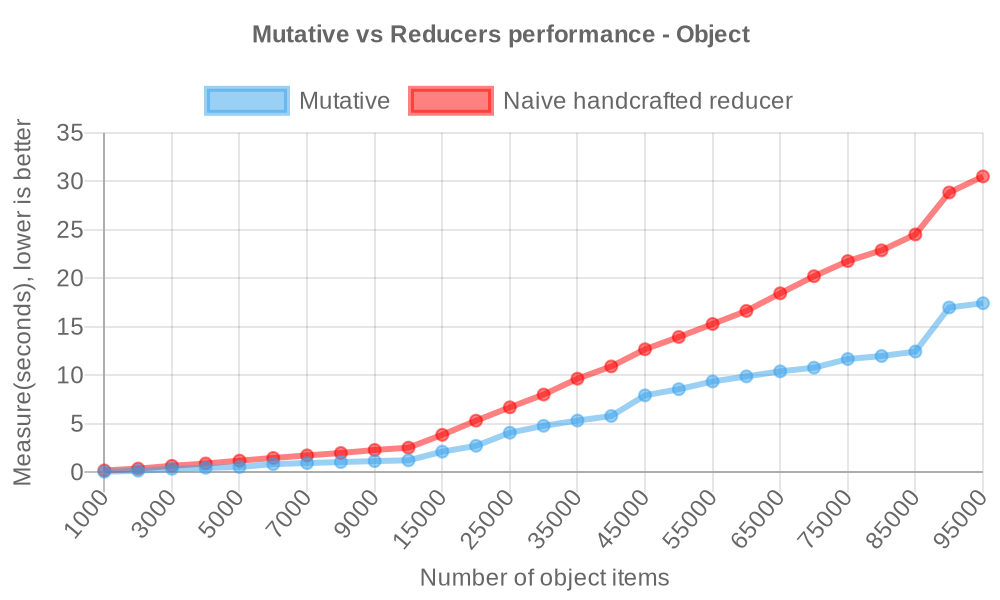
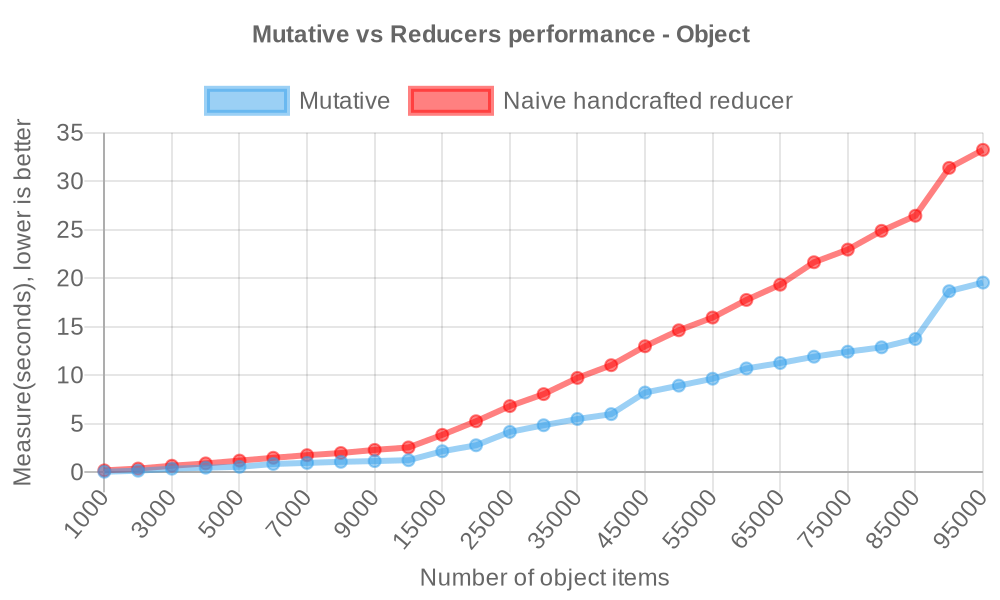
docs(benchmark): update benchmark for mutative v1.0.9

diff --git a/README.md b/README.md
@@ -110,23 +110,23 @@ Mutative is up to 6x faster than naive handcrafted reducer for updating immutabl
 
 > Mutative passed all of Immer's test cases.
 
-Measure(ops/sec) to update 50K arrays and 1K objects, bigger is better([view source](https://github.com/unadlib/mutative/blob/main/test/performance/benchmark.ts)). [Mutative v1.0.5 vs Immer v10.1.1]
+Measure(ops/sec) to update 50K arrays and 1K objects, bigger is better([view source](https://github.com/unadlib/mutative/blob/main/test/performance/benchmark.ts)). [Mutative v1.0.9 vs Immer v10.1.1]
 
 ![Benchmark](benchmark.jpg)
 
 ```
-Naive handcrafted reducer - No Freeze x 4,442 ops/sec ±0.38% (95 runs sampled)
-Mutative - No Freeze x 6,199 ops/sec ±0.79% (89 runs sampled)
-Immer - No Freeze x 5.30 ops/sec ±0.38% (18 runs sampled)
+Naive handcrafted reducer - No Freeze x 4,447 ops/sec ±0.85% (96 runs sampled)
+Mutative - No Freeze x 6,246 ops/sec ±1.29% (92 runs sampled)
+Immer - No Freeze x 5.26 ops/sec ±0.56% (18 runs sampled)
 
-Mutative - Freeze x 974 ops/sec ±1.77% (92 runs sampled)
-Immer - Freeze x 376 ops/sec ±0.67% (92 runs sampled)
+Mutative - Freeze x 950 ops/sec ±0.95% (96 runs sampled)
+Immer - Freeze x 377 ops/sec ±0.37% (93 runs sampled)
 
-Mutative - Patches and No Freeze x 969 ops/sec ±0.99% (97 runs sampled)
-Immer - Patches and No Freeze x 5.27 ops/sec ±0.36% (18 runs sampled)
+Mutative - Patches and No Freeze x 978 ops/sec ±0.16% (97 runs sampled)
+Immer - Patches and No Freeze x 5.23 ops/sec ±0.25% (18 runs sampled)
 
-Mutative - Patches and Freeze x 514 ops/sec ±0.97% (95 runs sampled)
-Immer - Patches and Freeze x 275 ops/sec ±0.74% (89 runs sampled)
+Mutative - Patches and Freeze x 504 ops/sec ±1.01% (94 runs sampled)
+Immer - Patches and Freeze x 272 ops/sec ±0.83% (89 runs sampled)
 
 The fastest method is Mutative - No Freeze
 ```
@@ -137,7 +137,7 @@ Run `yarn benchmark` to measure performance.
 
 Immer relies on auto-freeze to be enabled, if auto-freeze is disabled, Immer will have a huge performance drop and Mutative will have a huge performance lead, especially with large data structures it will have a performance lead of more than 50x.
 
-So if you are using Immer, you will have to enable auto-freeze for performance. Mutative is disabled auto-freeze by default. With the default configuration of both, we can see the 16x performance gap between Mutative (`6,199 ops/sec`) and Immer (`376 ops/sec`).
+So if you are using Immer, you will have to enable auto-freeze for performance. Mutative is disabled auto-freeze by default. With the default configuration of both, we can see the 16x performance gap between Mutative (`6,246 ops/sec`) and Immer (`377 ops/sec`).
 
 Overall, Mutative has a huge performance lead over Immer in [more performance testing scenarios](https://github.com/unadlib/mutative/tree/main/test/performance). Run `yarn performance` to get all the performance results locally.
 

diff --git a/website/docs/extra-topics/comparison-with-immer.md b/website/docs/extra-topics/comparison-with-immer.md
@@ -25,23 +25,23 @@ Mutative has fewer bugs such as accidental draft escapes than Immer, [view detai
 
 > Mutative passed all of Immer's test cases.
 
-Measure(ops/sec) to update 50K arrays and 1K objects, bigger is better([view source](https://github.com/unadlib/mutative/blob/main/test/performance/benchmark.ts)). [Mutative v1.0.5 vs Immer v10.1.1]
+Measure(ops/sec) to update 50K arrays and 1K objects, bigger is better([view source](https://github.com/unadlib/mutative/blob/main/test/performance/benchmark.ts)). [Mutative v1.0.9 vs Immer v10.1.1]
 
 ![Benchmark](img/benchmark.jpg)
 
 ```
-Naive handcrafted reducer - No Freeze x 4,442 ops/sec ±0.38% (95 runs sampled)
-Mutative - No Freeze x 6,199 ops/sec ±0.79% (89 runs sampled)
-Immer - No Freeze x 5.30 ops/sec ±0.38% (18 runs sampled)
+Naive handcrafted reducer - No Freeze x 4,447 ops/sec ±0.85% (96 runs sampled)
+Mutative - No Freeze x 6,246 ops/sec ±1.29% (92 runs sampled)
+Immer - No Freeze x 5.26 ops/sec ±0.56% (18 runs sampled)
 
-Mutative - Freeze x 974 ops/sec ±1.77% (92 runs sampled)
-Immer - Freeze x 376 ops/sec ±0.67% (92 runs sampled)
+Mutative - Freeze x 950 ops/sec ±0.95% (96 runs sampled)
+Immer - Freeze x 377 ops/sec ±0.37% (93 runs sampled)
 
-Mutative - Patches and No Freeze x 969 ops/sec ±0.99% (97 runs sampled)
-Immer - Patches and No Freeze x 5.27 ops/sec ±0.36% (18 runs sampled)
+Mutative - Patches and No Freeze x 978 ops/sec ±0.16% (97 runs sampled)
+Immer - Patches and No Freeze x 5.23 ops/sec ±0.25% (18 runs sampled)
 
-Mutative - Patches and Freeze x 514 ops/sec ±0.97% (95 runs sampled)
-Immer - Patches and Freeze x 275 ops/sec ±0.74% (89 runs sampled)
+Mutative - Patches and Freeze x 504 ops/sec ±1.01% (94 runs sampled)
+Immer - Patches and Freeze x 272 ops/sec ±0.83% (89 runs sampled)
 
 The fastest method is Mutative - No Freeze
 ```
@@ -52,7 +52,7 @@ Run `yarn benchmark` to measure performance.
 
 Immer relies on auto-freeze to be enabled, if auto-freeze is disabled, Immer will have a huge performance drop and Mutative will have a huge performance lead, especially with large data structures it will have a performance lead of more than 50x.
 
-So if you are using Immer, you will have to enable auto-freeze for performance. Mutative is disabled auto-freeze by default. With the default configuration of both, we can see the 16x performance gap between Mutative (`6,199 ops/sec`) and Immer (`376 ops/sec`).
+So if you are using Immer, you will have to enable auto-freeze for performance. Mutative is disabled auto-freeze by default. With the default configuration of both, we can see the 16x performance gap between Mutative (`6,246 ops/sec`) and Immer (`377 ops/sec`).
 
 Overall, Mutative has a huge performance lead over Immer in [more performance testing scenarios](https://github.com/unadlib/mutative/tree/main/test/performance). Run `yarn performance` to get all the performance results locally.
 

diff --git a/website/docs/getting-started/performance.md b/website/docs/getting-started/performance.md
@@ -69,23 +69,23 @@ const state = create(baseState, (draft) => {
 
 > Mutative passed all of Immer's test cases.
 
-Measure(ops/sec) to update 50K arrays and 1K objects, bigger is better([view source](https://github.com/unadlib/mutative/blob/main/test/performance/benchmark.ts)). [Mutative v1.0.5 vs Immer v10.1.1]
+Measure(ops/sec) to update 50K arrays and 1K objects, bigger is better([view source](https://github.com/unadlib/mutative/blob/main/test/performance/benchmark.ts)). [Mutative v1.0.9 vs Immer v10.1.1]
 
 ![Benchmark](img/benchmark.jpg)
 
 ```
-Naive handcrafted reducer - No Freeze x 4,442 ops/sec ±0.38% (95 runs sampled)
-Mutative - No Freeze x 6,199 ops/sec ±0.79% (89 runs sampled)
-Immer - No Freeze x 5.30 ops/sec ±0.38% (18 runs sampled)
+Naive handcrafted reducer - No Freeze x 4,447 ops/sec ±0.85% (96 runs sampled)
+Mutative - No Freeze x 6,246 ops/sec ±1.29% (92 runs sampled)
+Immer - No Freeze x 5.26 ops/sec ±0.56% (18 runs sampled)
 
-Mutative - Freeze x 974 ops/sec ±1.77% (92 runs sampled)
-Immer - Freeze x 376 ops/sec ±0.67% (92 runs sampled)
+Mutative - Freeze x 950 ops/sec ±0.95% (96 runs sampled)
+Immer - Freeze x 377 ops/sec ±0.37% (93 runs sampled)
 
-Mutative - Patches and No Freeze x 969 ops/sec ±0.99% (97 runs sampled)
-Immer - Patches and No Freeze x 5.27 ops/sec ±0.36% (18 runs sampled)
+Mutative - Patches and No Freeze x 978 ops/sec ±0.16% (97 runs sampled)
+Immer - Patches and No Freeze x 5.23 ops/sec ±0.25% (18 runs sampled)
 
-Mutative - Patches and Freeze x 514 ops/sec ±0.97% (95 runs sampled)
-Immer - Patches and Freeze x 275 ops/sec ±0.74% (89 runs sampled)
+Mutative - Patches and Freeze x 504 ops/sec ±1.01% (94 runs sampled)
+Immer - Patches and Freeze x 272 ops/sec ±0.83% (89 runs sampled)
 
 The fastest method is Mutative - No Freeze
 ```
@@ -96,7 +96,7 @@ Run `yarn benchmark` to measure performance.
 
 Immer relies on auto-freeze to be enabled, if auto-freeze is disabled, Immer will have a huge performance drop and Mutative will have a huge performance lead, especially with large data structures it will have a performance lead of more than 50x.
 
-So if you are using Immer, you will have to enable auto-freeze for performance. Mutative is disabled auto-freeze by default. With the default configuration of both, we can see the 16x performance gap between Mutative (`6,199 ops/sec`) and Immer (`376 ops/sec`).
+So if you are using Immer, you will have to enable auto-freeze for performance. Mutative is disabled auto-freeze by default. With the default configuration of both, we can see the 16x performance gap between Mutative (`6,246 ops/sec`) and Immer (`377 ops/sec`).
 
 Overall, Mutative has a huge performance lead over Immer in [more performance testing scenarios](https://github.com/unadlib/mutative/tree/main/test/performance). Run `yarn performance` to get all the performance results locally.
 

diff --git a/website/blog/releases/1.0/index.md b/website/blog/releases/1.0/index.md
@@ -81,23 +81,23 @@ const state = create(baseState, (draft) => {
 
 > Mutative passed all of Immer's test cases.
 
-Measure(ops/sec) to update 50K arrays and 1K objects, bigger is better([view source](https://github.com/unadlib/mutative/blob/main/test/performance/benchmark.ts)). [Mutative v1.0.5 vs Immer v10.1.1]
+Measure(ops/sec) to update 50K arrays and 1K objects, bigger is better([view source](https://github.com/unadlib/mutative/blob/main/test/performance/benchmark.ts)). [Mutative v1.0.9 vs Immer v10.1.1]
 
 ![Benchmark](img/benchmark.jpg)
 
 ```
-Naive handcrafted reducer - No Freeze x 4,442 ops/sec ±0.38% (95 runs sampled)
-Mutative - No Freeze x 6,199 ops/sec ±0.79% (89 runs sampled)
-Immer - No Freeze x 5.30 ops/sec ±0.38% (18 runs sampled)
+Naive handcrafted reducer - No Freeze x 4,447 ops/sec ±0.85% (96 runs sampled)
+Mutative - No Freeze x 6,246 ops/sec ±1.29% (92 runs sampled)
+Immer - No Freeze x 5.26 ops/sec ±0.56% (18 runs sampled)
 
-Mutative - Freeze x 974 ops/sec ±1.77% (92 runs sampled)
-Immer - Freeze x 376 ops/sec ±0.67% (92 runs sampled)
+Mutative - Freeze x 950 ops/sec ±0.95% (96 runs sampled)
+Immer - Freeze x 377 ops/sec ±0.37% (93 runs sampled)
 
-Mutative - Patches and No Freeze x 969 ops/sec ±0.99% (97 runs sampled)
-Immer - Patches and No Freeze x 5.27 ops/sec ±0.36% (18 runs sampled)
+Mutative - Patches and No Freeze x 978 ops/sec ±0.16% (97 runs sampled)
+Immer - Patches and No Freeze x 5.23 ops/sec ±0.25% (18 runs sampled)
 
-Mutative - Patches and Freeze x 514 ops/sec ±0.97% (95 runs sampled)
-Immer - Patches and Freeze x 275 ops/sec ±0.74% (89 runs sampled)
+Mutative - Patches and Freeze x 504 ops/sec ±1.01% (94 runs sampled)
+Immer - Patches and Freeze x 272 ops/sec ±0.83% (89 runs sampled)
 
 The fastest method is Mutative - No Freeze
 ```
@@ -108,7 +108,7 @@ Run `yarn benchmark` to measure performance.
 
 Immer relies on auto-freeze to be enabled, if auto-freeze is disabled, Immer will have a huge performance drop and Mutative will have a huge performance lead, especially with large data structures it will have a performance lead of more than 50x.
 
-So if you are using Immer, you will have to enable auto-freeze for performance. Mutative is disabled auto-freeze by default. With the default configuration of both, we can see the 16x performance gap between Mutative (`6,199 ops/sec`) and Immer (`376 ops/sec`).
+So if you are using Immer, you will have to enable auto-freeze for performance. Mutative is disabled auto-freeze by default. With the default configuration of both, we can see the 16x performance gap between Mutative (`6,246 ops/sec`) and Immer (`377 ops/sec`).
 
 Overall, Mutative has a huge performance lead over Immer in [more performance testing scenarios](https://github.com/unadlib/mutative/tree/main/test/performance).
 
